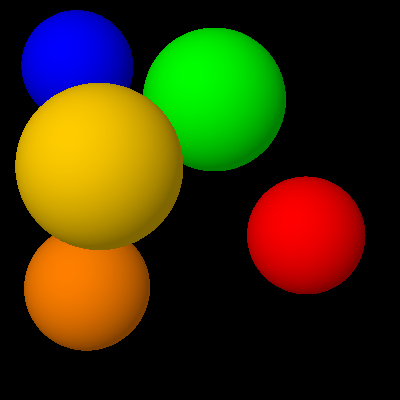
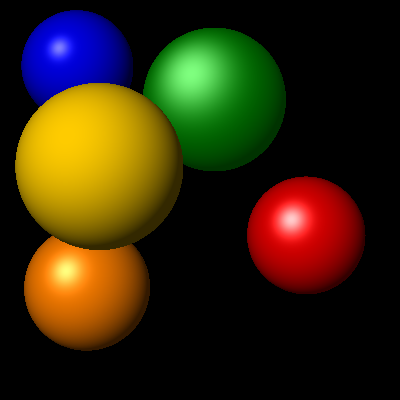
Finished specular + multilight

diff --git a/deGroot_Ibrahimi_Raytracing_1/Code/scene.cpp b/deGroot_Ibrahimi_Raytracing_1/Code/scene.cpp
@@ -10,16 +10,13 @@
 
 using namespace std;
 
-Color Scene::trace(Ray const &ray)
-{
+Color Scene::trace(Ray const& ray) {
     // Find hit object and distance
     Hit min_hit(numeric_limits<double>::infinity(), Vector());
     ObjectPtr obj = nullptr;
-    for (unsigned idx = 0; idx != objects.size(); ++idx)
-    {
+    for (unsigned idx = 0; idx != objects.size(); ++idx) {
         Hit hit(objects[idx]->intersect(ray));
-        if (hit.t < min_hit.t)
-        {
+        if (hit.t < min_hit.t) {
             min_hit = hit;
             obj = objects[idx];
         }
@@ -52,25 +49,28 @@ Color Scene::trace(Ray const &ray)
     *        pow(a,b)           a to the power of b
     ****************************************************/
 
-    Color Ia, Id, Is;
-    auto L = (lights[0]->position - hit).normalized();
+    Color Ia, Id = Color(0.0, 0.0, 0.0), Is = Color(0.0, 0.0, 0.0);
+
 
     if (N.dot(V) < 0) N *= -1;
 
     Ia = material.color * material.ka;
-    Id = max(N.dot(L), 0.0) * material.color * lights[0]->color * material.kd;
+    for (auto& l : lights) {
+        auto L = (l->position - hit).normalized();
+        auto R = 2 * (N.dot(L)) * N - L;
+        
+        Id += max(N.dot(L), 0.0) * material.color * l->color * material.kd;
+        Is += pow(max(R.dot(V), 0.0), material.n) * l->color * material.ks;
+    }
 
-    return Ia + Id;
+    return Ia + Id + Is;
 }
 
-void Scene::render(Image &img)
-{
+void Scene::render(Image& img) {
     unsigned w = img.width();
     unsigned h = img.height();
-    for (unsigned y = 0; y < h; ++y)
-    {
-        for (unsigned x = 0; x < w; ++x)
-        {
+    for (unsigned y = 0; y < h; ++y) {
+        for (unsigned x = 0; x < w; ++x) {
             Point pixel(x + 0.5, h - 1 - y + 0.5, 0);
             Ray ray(eye, (pixel - eye).normalized());
             Color col = trace(ray);
@@ -82,27 +82,22 @@ void Scene::render(Image &img)
 
 // --- Misc functions ----------------------------------------------------------
 
-void Scene::addObject(ObjectPtr obj)
-{
+void Scene::addObject(ObjectPtr obj) {
     objects.push_back(obj);
 }
 
-void Scene::addLight(Light const &light)
-{
+void Scene::addLight(Light const& light) {
     lights.push_back(LightPtr(new Light(light)));
 }
 
-void Scene::setEye(Triple const &position)
-{
+void Scene::setEye(Triple const& position) {
     eye = position;
 }
 
-unsigned Scene::getNumObject()
-{
+unsigned Scene::getNumObject() {
     return objects.size();
 }
 
-unsigned Scene::getNumLights()
-{
+unsigned Scene::getNumLights() {
     return lights.size();
 }
